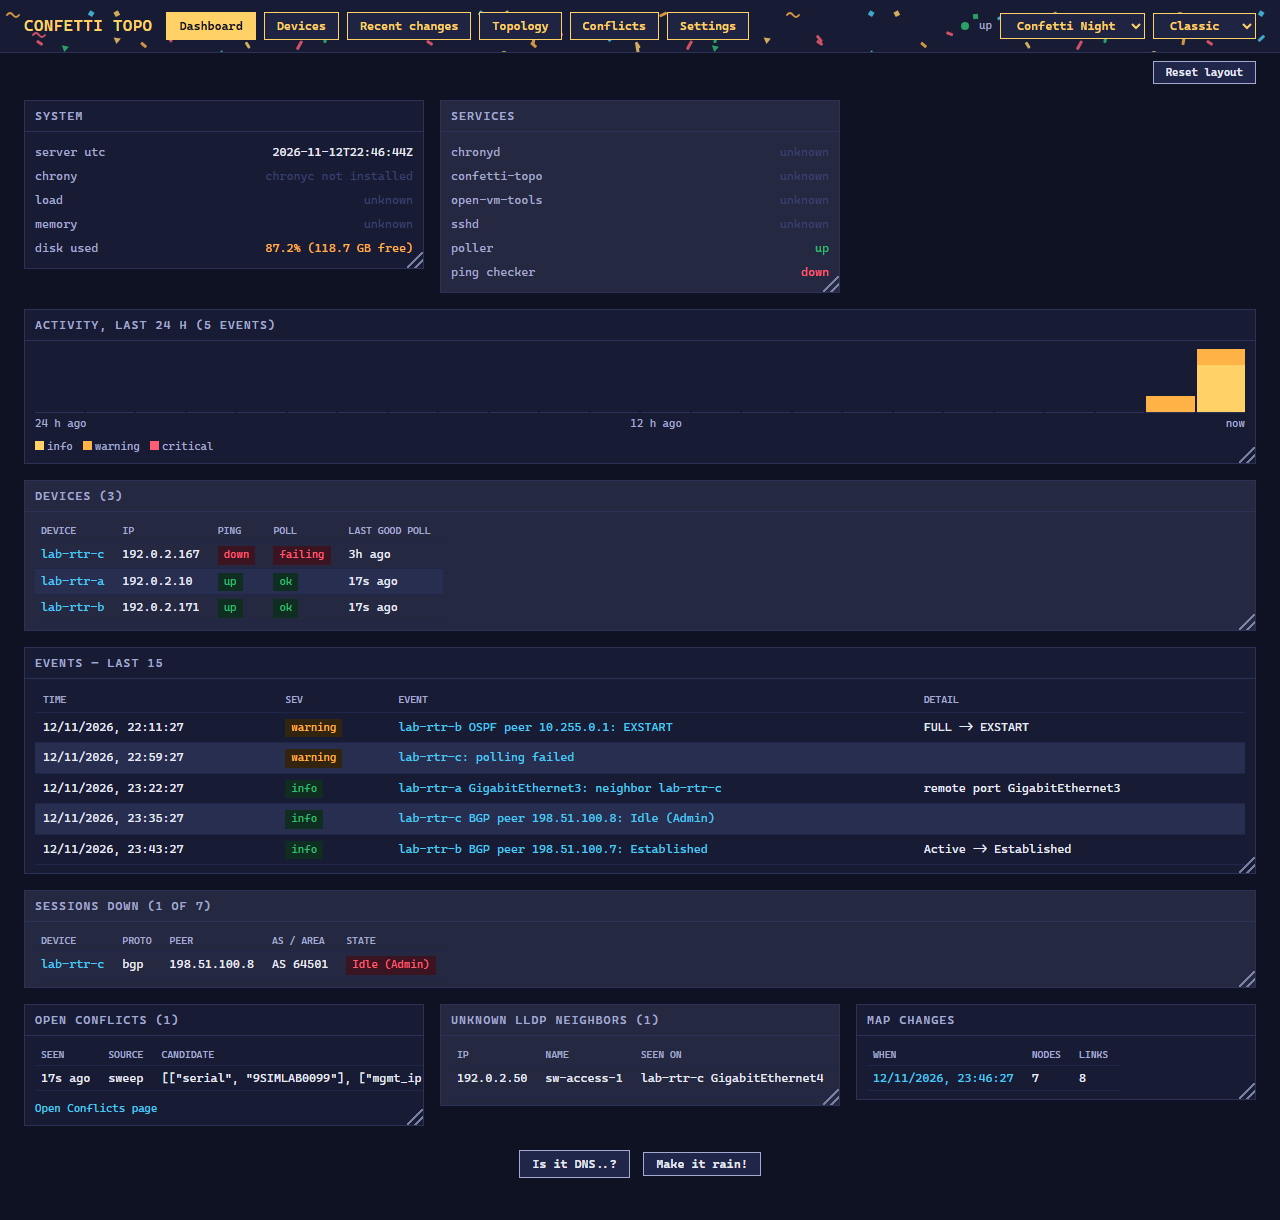
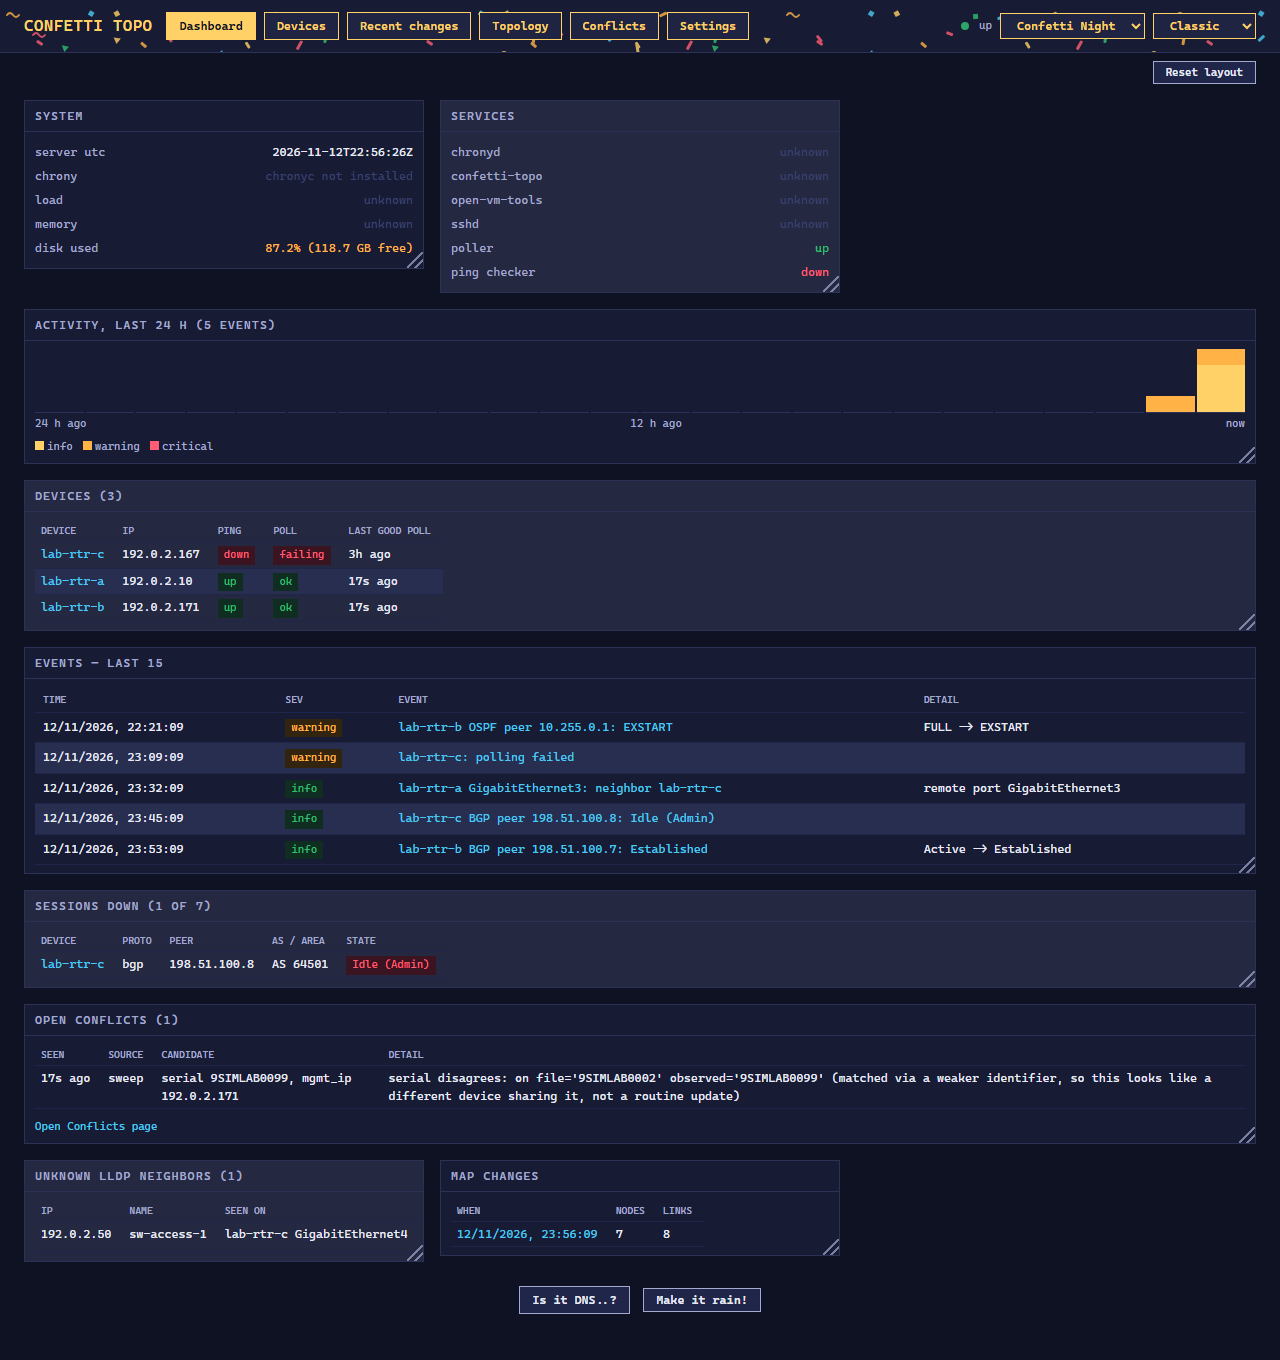
Dashboard: readable candidate in the Open conflicts widget
- Candidate JSON pairs shown as "serial X, mgmt_ip Y" (raw text in the tooltip).
- Cells wrap; the widget is full width.
- Screenshots re-recorded, dashboard shot taller.

diff --git a/topo/templates/dashboard.html b/topo/templates/dashboard.html
@@ -3,6 +3,7 @@
 {% block head %}
 <style>
 .note { margin-top: 10px; }
+table.compact td.wrap { white-space: normal; overflow-wrap: anywhere; }
 /* Activity chart: one bar per hour, stacked by severity; colours come from the theme variables. */
 .act-bars { display: flex; align-items: flex-end; gap: 2px; height: 64px; }
 .act-bar { flex: 1 1 0; display: flex; flex-direction: column-reverse; min-width: 0; height: 100%; justify-content: flex-start; }
@@ -81,7 +82,7 @@
             <div class="empty" id="ses-empty" style="display:none">all BGP/OSPF sessions are up</div>
         </div>
     </div>
-    <div class="section" data-box="conflicts">
+    <div class="section wide" data-box="conflicts">
         <div class="section-header"><span>Open conflicts <span id="con-count"></span></span></div>
         <div class="section-body">
             <table class="striped compact">
@@ -276,12 +277,24 @@ function renderSessions(down, total) {
     document.getElementById('ses-empty').style.display = down.length ? 'none' : 'block';
 }
 
+// The candidate is stored as JSON pairs, [["serial","X"],["mgmt_ip","Y"]]: show "serial X, mgmt_ip Y". Anything else stays as it is.
+function candidateText(raw) {
+    try {
+        var pairs = JSON.parse(raw);
+        if (Array.isArray(pairs)) {
+            return pairs.map(function (p) { return Array.isArray(p) ? p.join(' ') : String(p); }).join(', ');
+        }
+    } catch (e) { /* not JSON: show it as it is */ }
+    return raw;
+}
+
 // Merge conflicts waiting for the operator (merge and dismiss stay on the Conflicts page).
 function loadConflicts() {
     fetch('/api/conflicts').then(function (r) { return r.json(); }).then(function (list) {
         var rows = '';
         list.forEach(function (c) {
-            rows += '<tr><td>' + esc(timeAgo(c.seen_at)) + '</td><td>' + esc(c.source) + '</td><td>' + esc(c.candidate) + '</td><td>' + esc(c.detail) + '</td></tr>';
+            rows += '<tr><td>' + esc(timeAgo(c.seen_at)) + '</td><td>' + esc(c.source) + '</td><td class="wrap" title="' + esc(c.candidate) + '">' +
+                esc(candidateText(c.candidate)) + '</td><td class="wrap">' + esc(c.detail) + '</td></tr>';
         });
         document.getElementById('con-rows').innerHTML = rows;
         document.getElementById('con-count').textContent = list.length ? '(' + list.length + ')' : '';

diff --git a/topo/scripts/capture_readme.py b/topo/scripts/capture_readme.py
@@ -96,7 +96,7 @@ def main():
             collage([shot(browser, "/", layout=l) for l in LAYOUTS], os.path.join(OUT, "layouts.png"))
 
             # The whole dashboard on one tall screen: the collages above cut off the lower widgets.
-            shot(browser, "/", size={"width": 1280, "height": 1220}).save(os.path.join(OUT, "dashboard.png"), optimize=True)
+            shot(browser, "/", size={"width": 1280, "height": 1360}).save(os.path.join(OUT, "dashboard.png"), optimize=True)
 
             frames = [shot(browser, path) for path in TOUR]
             frames[TOUR.index("/topology")].save(os.path.join(OUT, "topology.png"), optimize=True)
